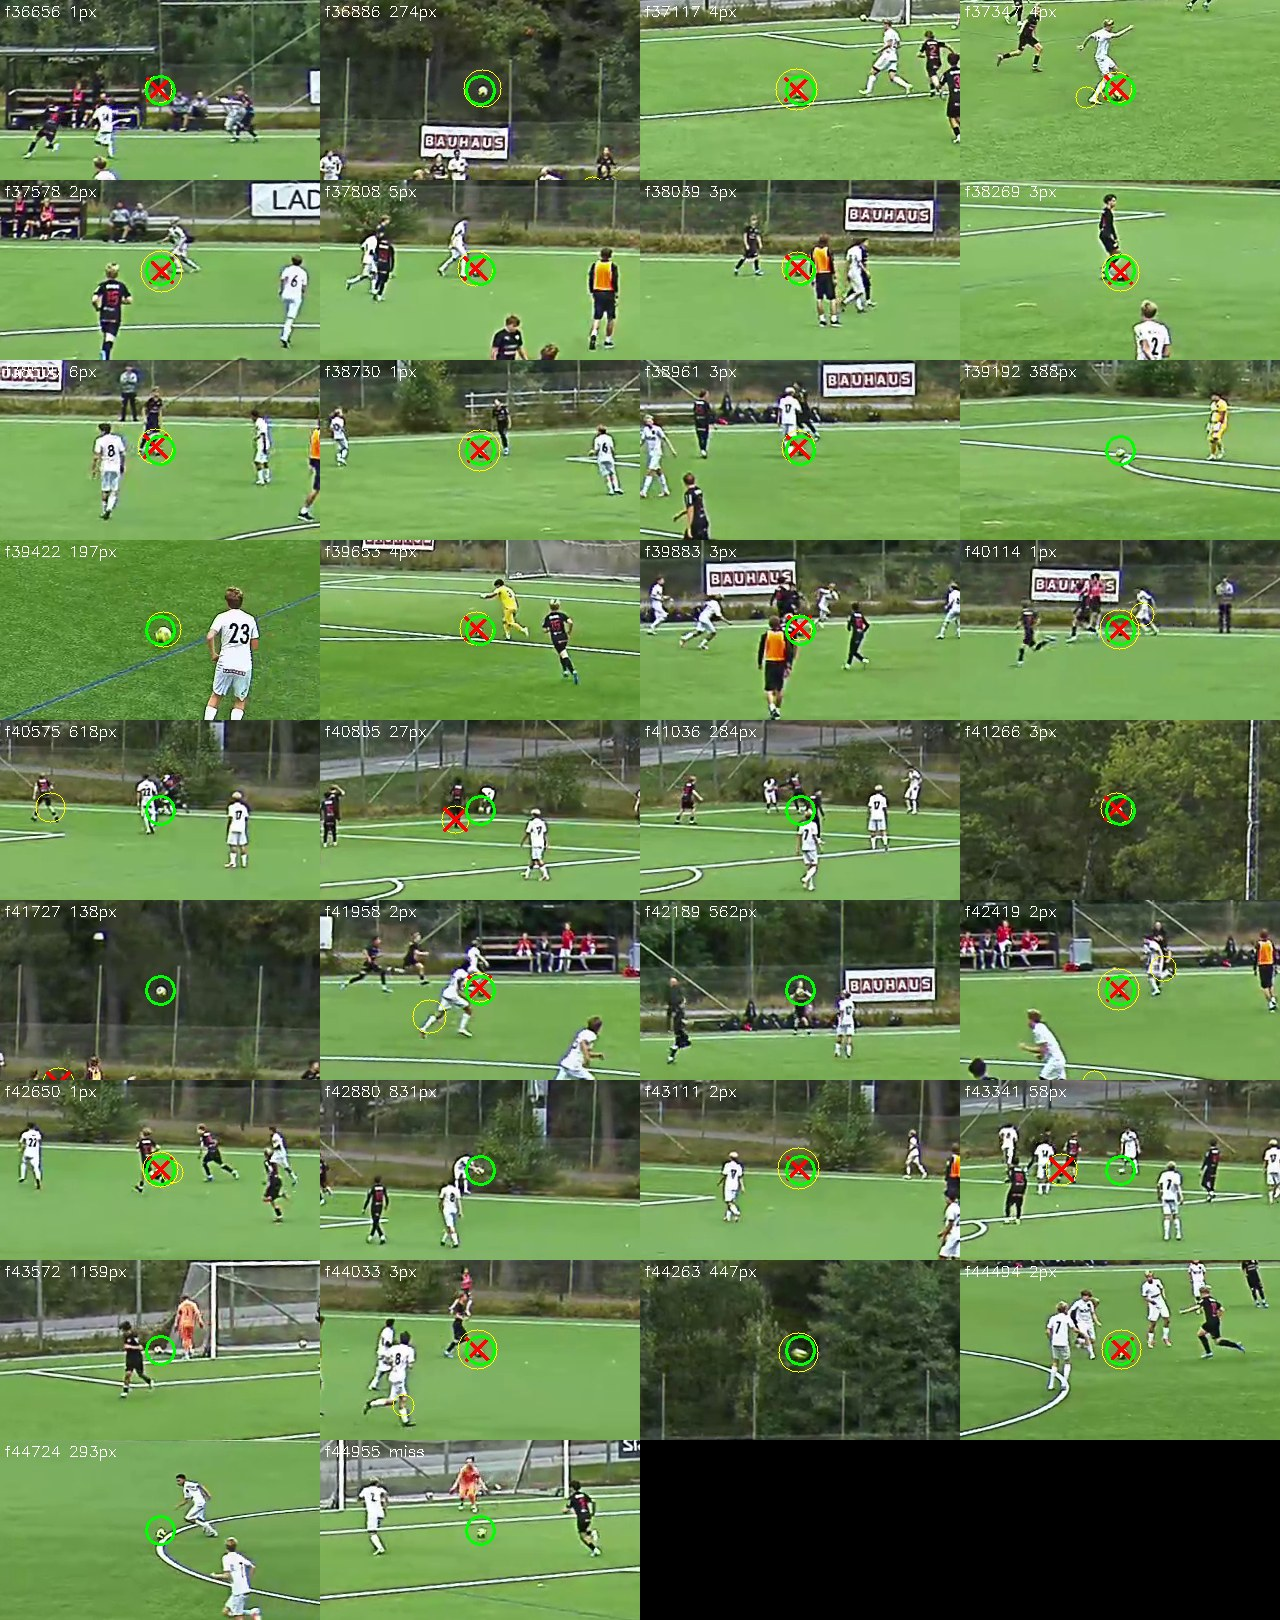
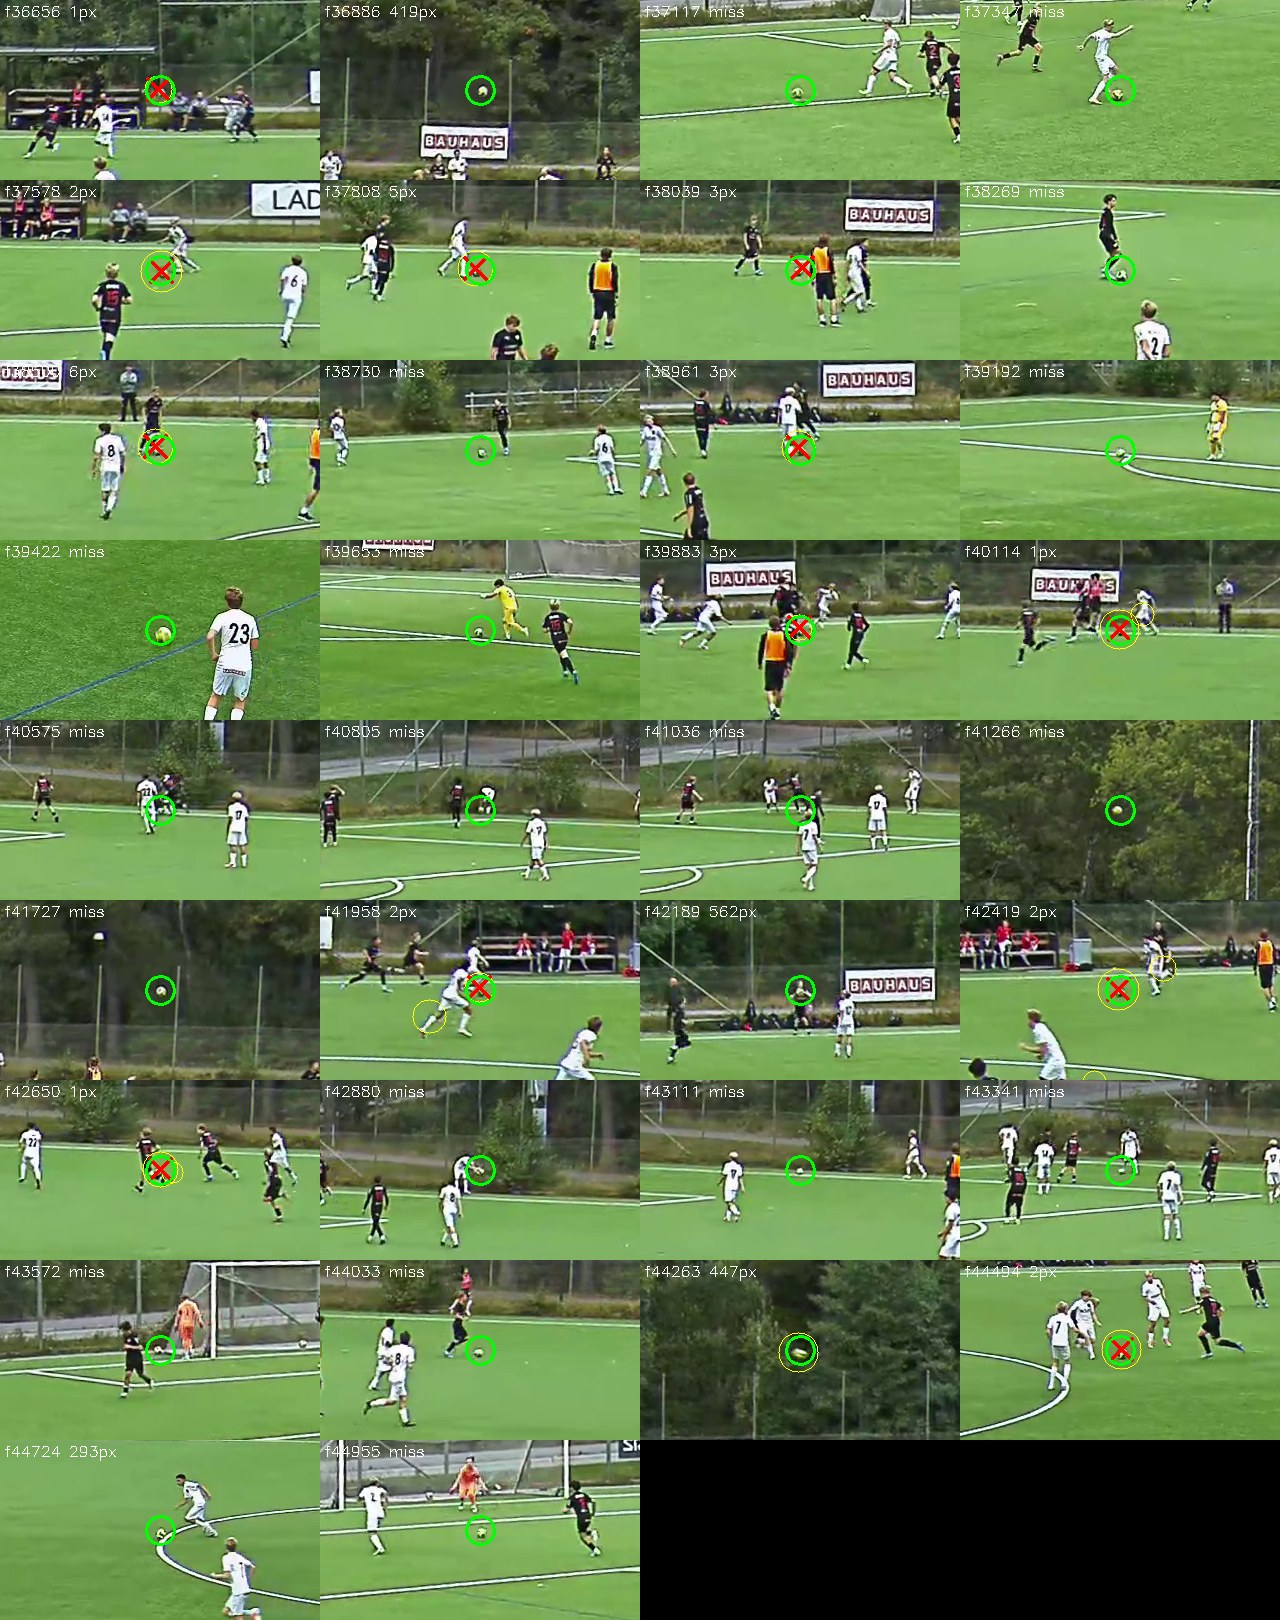
modal results

diff --git a/results/scoreboard.md b/results/scoreboard.md
@@ -9,3 +9,4 @@ Ball check = correct picks on held-out labelled frames; ceiling = frames where t
 | 2026-09-21 23:53 | dbfce07 | SFKBP1109_full | ? | 21/34 | 24 | — | withheld | withheld | {'A': 5.0, 'B': 6.0} |  · other picker v1: 18/34 · picker test SFKBP1109: v2 36/59, other 26/59 · picker test SFKBP1109b: v2 70/134, other 38/134 |
 | 2026-09-22 00:46 | c87fe53 | SFKBP1109_full | ? | 21/34 | 24 | — | withheld | withheld | {'A': 5.0, 'B': 6.0} |  · other picker v1: 18/34 · picker test SFKBP1109: v2 36/59, other 26/59 · picker test SFKBP1109b: v2 70/134, other 38/134 |
 | 2026-09-22 05:53 | 97916c0 | SFKBP1109_full | ? | 21/34 | 24 | — | withheld | withheld | {'A': 5.0, 'B': 6.0} |  · other picker v1: 18/34 · picker test SFKBP1109: v2 34/59, other 24/59 · picker test SFKBP1109b: v2 65/134, other 37/134 |
+| 2026-09-22 06:05 | 8a3db83 | SFKBP1109_full | ? | 12/34 | 12 | — | withheld | withheld | {'A': 6.0, 'B': 6.0} |  · other picker v1: 10/34 · picker test SFKBP1109: v2 12/59, other 7/59 · picker test SFKBP1109b: v2 22/134, other 19/134 |
